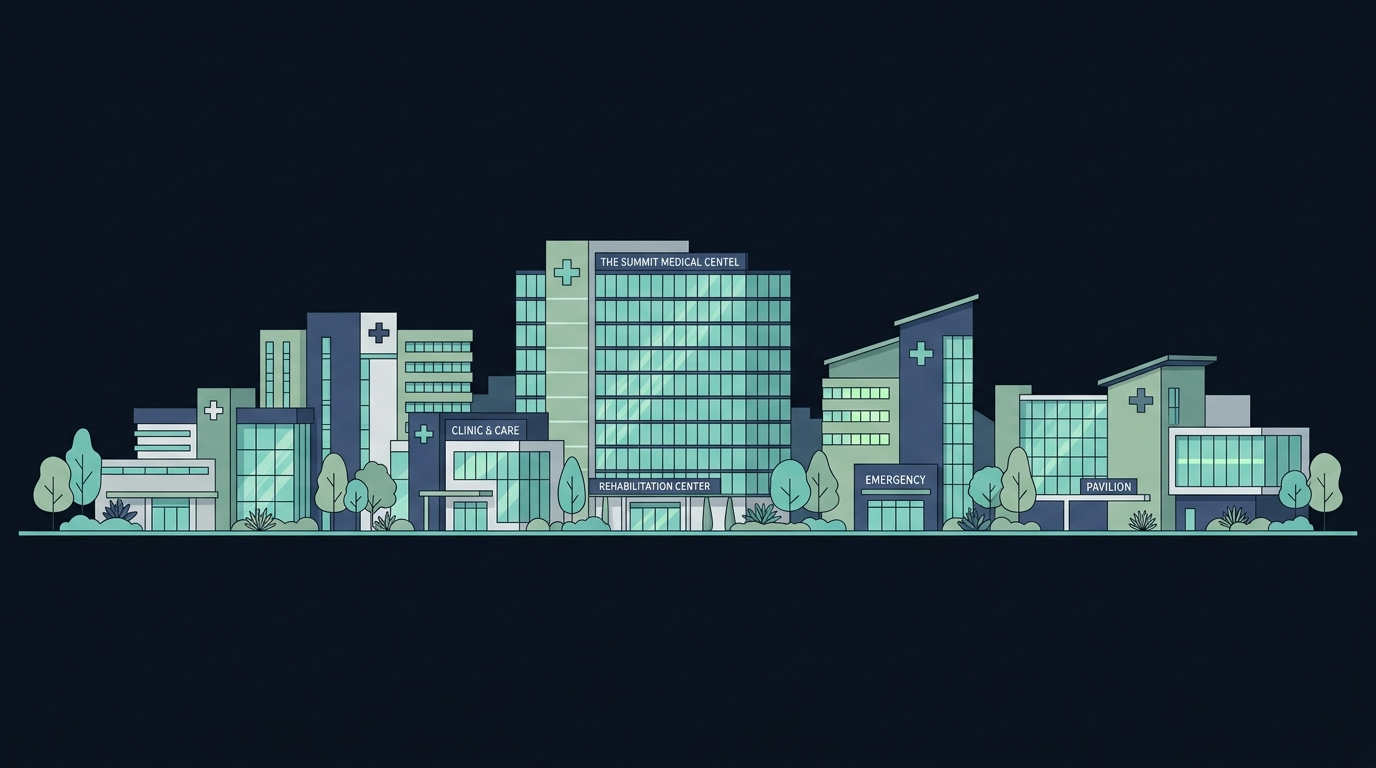
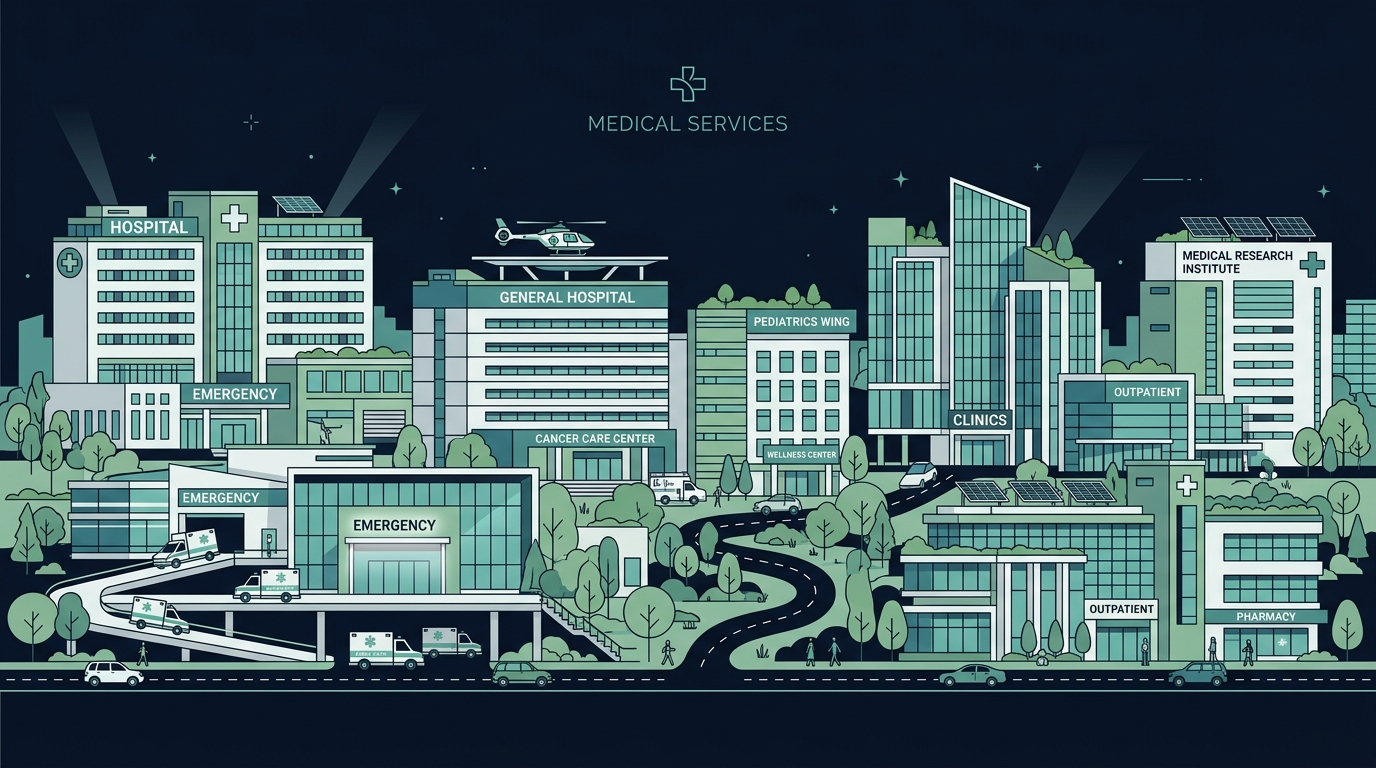
Update footer skyline to edge-to-edge full width panorama

diff --git a/assets/css/main.css b/assets/css/main.css
@@ -3348,7 +3348,7 @@ body {
   transform: translateY(0);
 }
 
-/* ---------- Hospital Architectural Skyline Panorama ---------- */
+/* ---------- Hospital Architectural Skyline Panorama (Edge to Edge) ---------- */
 .footer-skyline {
   position: relative;
   width: 100%;
@@ -3360,15 +3360,14 @@ body {
 
 .footer-skyline__img {
   width: 100%;
-  max-width: 82rem;
-  margin-inline: auto;
-  height: clamp(100px, 14vw, 210px);
-  object-fit: contain;
+  max-width: 100%;
+  height: clamp(130px, 18vw, 300px);
+  object-fit: cover;
   object-position: center bottom;
   display: block;
   opacity: 0.94;
   mix-blend-mode: lighten;
-  filter: drop-shadow(0 -8px 24px rgba(127, 209, 193, 0.12));
+  filter: drop-shadow(0 -8px 24px rgba(127, 209, 193, 0.14));
 }
 
 /* ---------- BOTTOM BAR ---------- */
